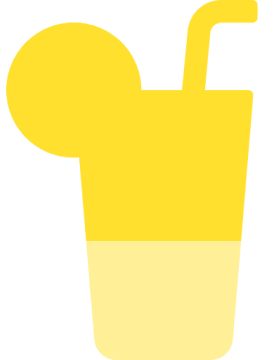
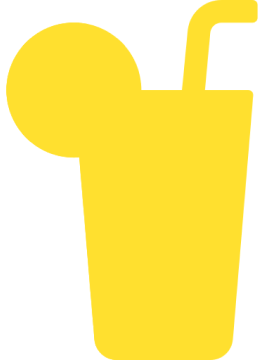
[UPDATE] add water onScroll

Changed region(s): [[0.2867, 0.6722, 0.8889, 1.0]]

diff --git a/watercactus_frontend/lib/screen/home/logWater.dart b/watercactus_frontend/lib/screen/home/logWater.dart
@@ -15,8 +15,11 @@ class LogWaterPage extends StatefulWidget {
 
 class _LogWaterPageState extends State<LogWaterPage> {
   String cactusPath = 'whiteCactus.png';
-  bool showShaderMask = true;
   String _selectedNumber = "0";
+  double _totalDragDistance = 0.0;
+  final double _threshold = 5.0;
+  int _calculatedML = 110;
+  int _option1ML = 110;
 
   List<String> imagePath = [
     'beverages/Water.png',
@@ -42,13 +45,6 @@ class _LogWaterPageState extends State<LogWaterPage> {
 
   int selectedOptionIndex = 1;
   final ScrollController _controller = ScrollController();
-  List<String> options = [
-    '',
-    '100ml',
-    '200ml',
-    '300ml',
-    // ''
-  ];
 
   @override
   void initState() {
@@ -65,38 +61,39 @@ class _LogWaterPageState extends State<LogWaterPage> {
   }
 
   void _onScroll() {
-  double center = _controller.position.viewportDimension / 2;
-  double minDistance = double.infinity;
-  int newSelectedIndex = selectedOptionIndex;
+    double center = _controller.position.viewportDimension / 2;
+    double minDistance = double.infinity;
+    int newSelectedIndex = selectedOptionIndex;
 
-  for (int index = 0; index < options.length; index++) {
-    double itemExtent = 120.0; // Adjust according to the size of your items
-    double itemCenter = index * itemExtent + itemExtent / 2;
+    for (int index = 0; index < 4; index++) {
+      double itemExtent = 120.0; // Adjust according to the size of your items
+      double itemCenter = index * itemExtent + itemExtent / 2;
 
-    double distance = (_controller.offset + center - itemCenter).abs();
-    if (distance < minDistance) {
-      minDistance = distance;
-      newSelectedIndex = index;
+      double distance = (_controller.offset + center - itemCenter).abs();
+      if (distance < minDistance) {
+        minDistance = distance;
+        newSelectedIndex = index;
+      }
     }
+
+    setState(() {
+      selectedOptionIndex = newSelectedIndex;
+      _calculatedML = newSelectedIndex == 0 ? 0 : newSelectedIndex == 1 ? 110 : newSelectedIndex == 2 ? 80 : 330;
+    });
   }
 
-  setState(() {
-    selectedOptionIndex = newSelectedIndex;
-  });
-}
   void _onItemTab(int index) {
     print(index);
-    setState( () {
+    setState(() {
       selectedOptionIndex = index;
-    }
-    );
+      _calculatedML = index == 0 ? 0 : index == 1 ? 110 : index == 2 ? 80 : 330;
+      _option1ML = 110;
+      // print(_calculatedML);
+    });
   }
 
-  Widget buildOriginalImage() {
-    return Image.asset(
-      'Cactus.png',
-      width: 300,
-    );
+  double get _calculatedPortion {
+    return 1 - (_calculatedML / 380);
   }
 
   Widget buildShaderMaskImage() {
@@ -106,7 +103,7 @@ class _LogWaterPageState extends State<LogWaterPage> {
           begin: Alignment.topCenter,
           end: Alignment.bottomCenter,
           colors: [Colors.transparent, maskColor[widget.beverageIndex]],
-          stops: [0.3, 0.3], // Adjusted stops to fill 80% with blue
+          stops: [_calculatedPortion, _calculatedPortion],
         ).createShader(bounds);
       },
       blendMode: BlendMode.srcATop,
@@ -139,6 +136,13 @@ class _LogWaterPageState extends State<LogWaterPage> {
     final double screenWidth = MediaQuery.of(context).size.width;
     final Color? beverageColor = AppColors.beverageColors[widget.beverageName];
     print('color: $beverageColor');
+      List<String> options = [
+        '',
+        '${_option1ML.toString()} ml',
+        '80ml',
+        '330ml',
+        // ''
+      ];
 
     return Scaffold(
       backgroundColor: AppColors.white,
@@ -166,14 +170,41 @@ class _LogWaterPageState extends State<LogWaterPage> {
                     mainAxisAlignment: MainAxisAlignment.end,
                     children: [
                       GestureDetector(
-                        onTap: () {
+                        onVerticalDragUpdate: (details) {
+                            selectedOptionIndex = 1;
+                            _controller.animateTo(
+                            0,
+                            duration: const Duration(milliseconds: 50),
+                            curve: Curves.easeInOut,
+                          );
+                          // Accumulate the total drag distance
+                          _totalDragDistance += details.delta.dy;
+
+                          // Detect if the total drag distance is greater than the threshold
+                          if (_totalDragDistance < -_threshold) {
+                            setState(() {
+                              _calculatedML = (_calculatedML + 10).clamp(0, 330); // Increment by 10 and clamp between 0 and 330
+                              _option1ML = _calculatedML;
+                              _totalDragDistance = 0; // Reset the drag distance
+                              print('up: $_calculatedML');
+                            });
+                          } else if (_totalDragDistance > _threshold) {
+                            setState(() {
+                              _calculatedML = (_calculatedML - 10).clamp(0, 330); // Decrement by 10 and clamp between 0 and 330
+                              _option1ML = _calculatedML;
+                              _totalDragDistance = 0; // Reset the drag distance
+                              print('down: $_calculatedML');
+                            });
+                          }
+                        },
+                        onVerticalDragEnd: (details) {
+                          // Reset the drag distance when the drag ends
                           setState(() {
-                            showShaderMask = !showShaderMask;
+                            _totalDragDistance = 0;
+                            print(_calculatedML);
                           });
                         },
-                        child: showShaderMask
-                            ? buildShaderMaskImage()
-                            : buildOriginalImage(),
+                        child: buildShaderMaskImage(),
                       )
                     ],
                   ),
@@ -183,60 +214,58 @@ class _LogWaterPageState extends State<LogWaterPage> {
                   height: 260,
                   width: double.infinity,
                   color: AppColors.lightBlue,
-                  child: Column(
-                    children: [
-                      Expanded(
-                        child: ListView.builder(
-                          controller: _controller,
-                          scrollDirection: Axis.horizontal,
-                          itemCount: options.length,
-                          itemBuilder: (context, index) {
-                            final option = options[index];
-                            final isSelected = index == selectedOptionIndex;
+                  child: Column(children: [
+                    Expanded(
+                      child: ListView.builder(
+                        controller: _controller,
+                        scrollDirection: Axis.horizontal,
+                        itemCount: options.length,
+                        itemBuilder: (context, index) {
+                          final option = options[index];
+                          final isSelected = index == selectedOptionIndex;
 
-                            return GestureDetector(
-                              onTap: () => _onItemTab(index),
-                              child: Container(
-                                alignment: Alignment.center,
-                                padding: EdgeInsets.symmetric(horizontal: 55.0),
-                                child: Text(
-                                  option,
-                                  style: isSelected
-                                      ? CustomTextStyle.poppins1
-                                      : CustomTextStyle.poppins5,
-                                ),
+                          return GestureDetector(
+                            onTap: () => _onItemTab(index),
+                            child: Container(
+                              alignment: Alignment.center,
+                              padding: EdgeInsets.symmetric(horizontal: 55.0),
+                              child: Text(
+                                option,
+                                style: isSelected
+                                    ? CustomTextStyle.poppins1
+                                    : CustomTextStyle.poppins5,
                               ),
-                            );
-                          },
-                        ),
-                      ),
-                      Row(
-                        children: [
-                          // SizedBox(width: 150),
-                          Container(
-                            width: (screenWidth / 2) - 80,
-                          ),
-                          ElevatedButton(
-                            style: ButtonStyle(
-                               fixedSize: MaterialStateProperty.all<Size>(Size(140, 50)),
-                               backgroundColor: MaterialStateProperty.all<Color>(beverageColor ?? AppColors.grey), // Default to grey if beverageColor is null
                             ),
-                            onPressed: () {
-
-                            },
-                            child: Text('+ ${widget.beverageName}'),
-                          ),
-                          Spacer(),
-                          IconButton(
-                            onPressed: () => _showNumberPad(context),
-                             icon: Icon(Icons.dialpad, color: AppColors.black, size: 30),
-                          ),
-                          SizedBox(width: 30),
-                        ]
+                          );
+                        },
                       ),
-                      SizedBox(height: 50,)
-                    ]
-                  ),
+                    ),
+                    Row(children: [
+                      // SizedBox(width: 150),
+                      Container(
+                        width: (screenWidth / 2) - 80,
+                      ),
+                      ElevatedButton(
+                        style: ButtonStyle(
+                          fixedSize:
+                              MaterialStateProperty.all<Size>(Size(140, 50)),
+                          backgroundColor: MaterialStateProperty.all<Color>(beverageColor ?? AppColors.grey), // Default to grey if beverageColor is null
+                        ),
+                        onPressed: () {},
+                        child: Text('+ ${widget.beverageName}'),
+                      ),
+                      Spacer(),
+                      IconButton(
+                        onPressed: () => _showNumberPad(context),
+                        icon: Icon(Icons.dialpad,
+                            color: AppColors.black, size: 30),
+                      ),
+                      SizedBox(width: 30),
+                    ]),
+                    SizedBox(
+                      height: 50,
+                    )
+                  ]),
                 ),
                 // SizedBox(width: screenWidth / 2), // Space to center the selected option
               ],

diff --git a/watercactus_frontend/lib/screen/home/home.dart b/watercactus_frontend/lib/screen/home/home.dart
@@ -110,7 +110,7 @@ class _HomePageState extends State<HomePage> {
                 SizedBox(height: 30),
                 Container(
                   width: double.infinity,
-                  height:280,
+                  height: 290,
                   decoration: const BoxDecoration(
                     color: AppColors.white,
                     borderRadius: BorderRadius.only(
@@ -121,7 +121,6 @@ class _HomePageState extends State<HomePage> {
                   child: Column(
                     children: [
                      SizedBox(height: 10),
-
                       Padding(
                           padding: const EdgeInsets.all(20.0),
                           child: Text(
@@ -172,7 +171,7 @@ class _HomePageState extends State<HomePage> {
                                                     ),
                                                   ),
                                                 ),
-                                                SizedBox(height: 20),
+                                                SizedBox(height: 10),
                                                 Text(
                                                   beverageNames[index],
                                                   style: CustomTextStyle.poppins3,
@@ -196,14 +195,14 @@ class _HomePageState extends State<HomePage> {
                                                 ),
                                               ),
                                             ),
-                                            SizedBox(height: 20.0),
+                                            SizedBox(height: 10.0),
                                             Text(
                                               beverageNames[index],
                                               style: CustomTextStyle.poppins3,
                                             ),
                                           ]
                                         ),
-                                      // SizedBox(height: 10.0),
+
                                     ],
                                   ),
                                 ));

diff --git a/watercactus_frontend/lib/theme/custom_theme.dart b/watercactus_frontend/lib/theme/custom_theme.dart
@@ -94,7 +94,7 @@ class CustomTextStyle {
   static final TextStyle baloo1 = GoogleFonts.balooThambi2(
     textStyle: const TextStyle(
       fontWeight: FontWeight.w800,
-      fontSize: 20,
+      fontSize: 24,
       color: AppColors.darkGrey,
     ),
   );
